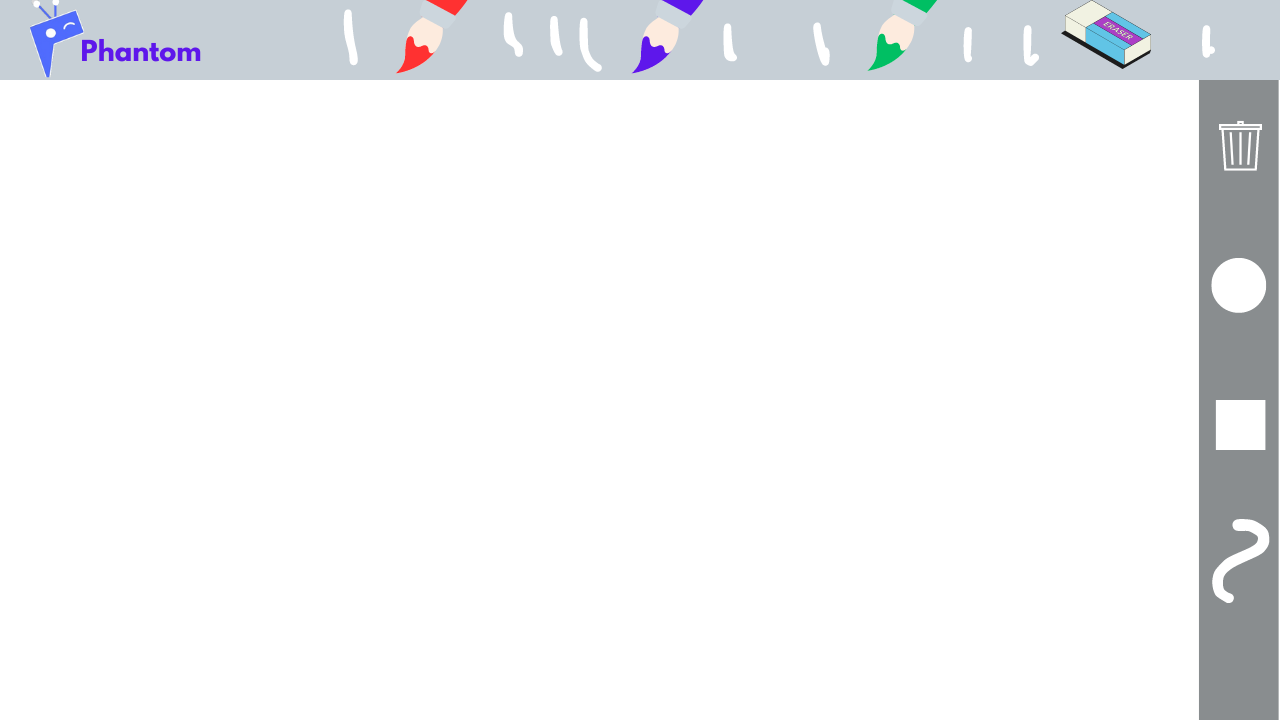
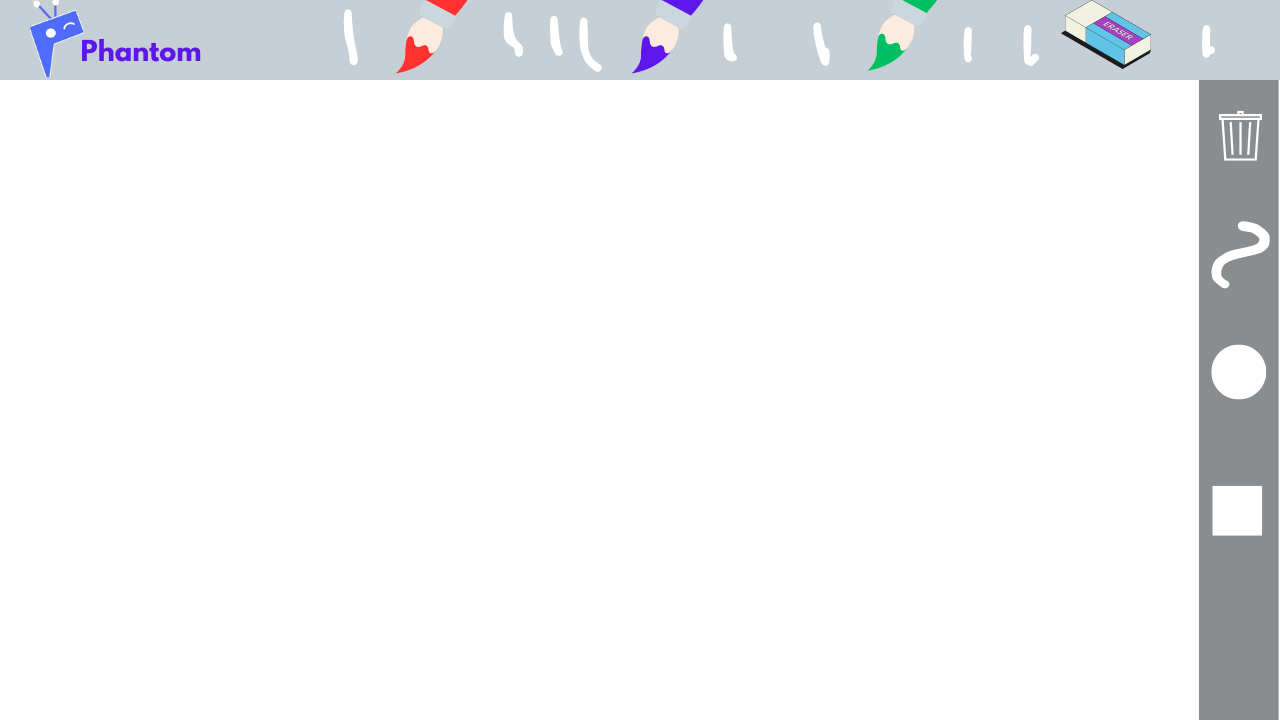
Added clearAll feature and also added a sidebar with tools

diff --git a/Phantom.py b/Phantom.py
@@ -6,6 +6,8 @@ White board available to send notes
 
 important areas of code
 
+Line number may change
+
 30  : importing modules
 36  : video capture object
 43  : Whiteboard
@@ -31,6 +33,7 @@ Tags
 
 v1.0.0 - Basic tools
 v1.1.0 - added white canvas
+v1.2.0 - added clearAll and sideBar
 
 
 """
@@ -59,6 +62,9 @@ canvasBlack=np.zeros((720,1280,3),np.uint8)
 
 #header bar image
 overlay=cv2.imread("images/BarUp.png")[0:80,0:1280]
+
+#SideBar image
+sidebar=cv2.imread("images/BarSide.png")[80:720,1200:1280]
 
 
 
@@ -155,7 +161,7 @@ while cap.isOpened():
 
 
 
-        # 4. Selection Mode
+        # 4. Selection Mode=================================================================================
         if fingerList[1] and fingerList[2]:
 
             #to make discontinuity after selection
@@ -188,11 +194,26 @@ while cap.isOpened():
                     drawColor = (0, 0, 0)
                     selectedColor = "none"
                     selectedTool='Eraser'
+            
+            #side tool selection
+            if xm>1220:
+                if 81<ym<167:
+                    #print("Clear all")
+                    canvasBlack = np.zeros((720, 1280, 3), np.uint8)
+                    canvas[:, :, :] = 255
+                elif 192<ym<294:
+                    print("Draw tool")
+                elif 320<ym<408:
+                    print("Circle tool")
+                elif 440<ym<550:
+                    print("Rectangle")
 
 
 
 
-        #5. Drawing Mode
+
+
+        #5. Drawing Mode==================================================================================
         if fingerList[1] and fingerList[2]==0:
             #print("Drawing Mode")
 
@@ -218,6 +239,7 @@ while cap.isOpened():
                 xp,yp=xi,yi
 
 
+
     #6 . Adding canvas and real fram
 
 
@@ -232,8 +254,9 @@ while cap.isOpened():
     #img = cv2.addWeighted(img, 0.5, canvas, 0.5, 0)
 
 
-    #trying to overlay header to webcam
+    #trying to overlay header , sidebar to webcam
     img[0:80,0:1280]=overlay
+    img[80:720,1200:1280]=sidebar
 
 
 
